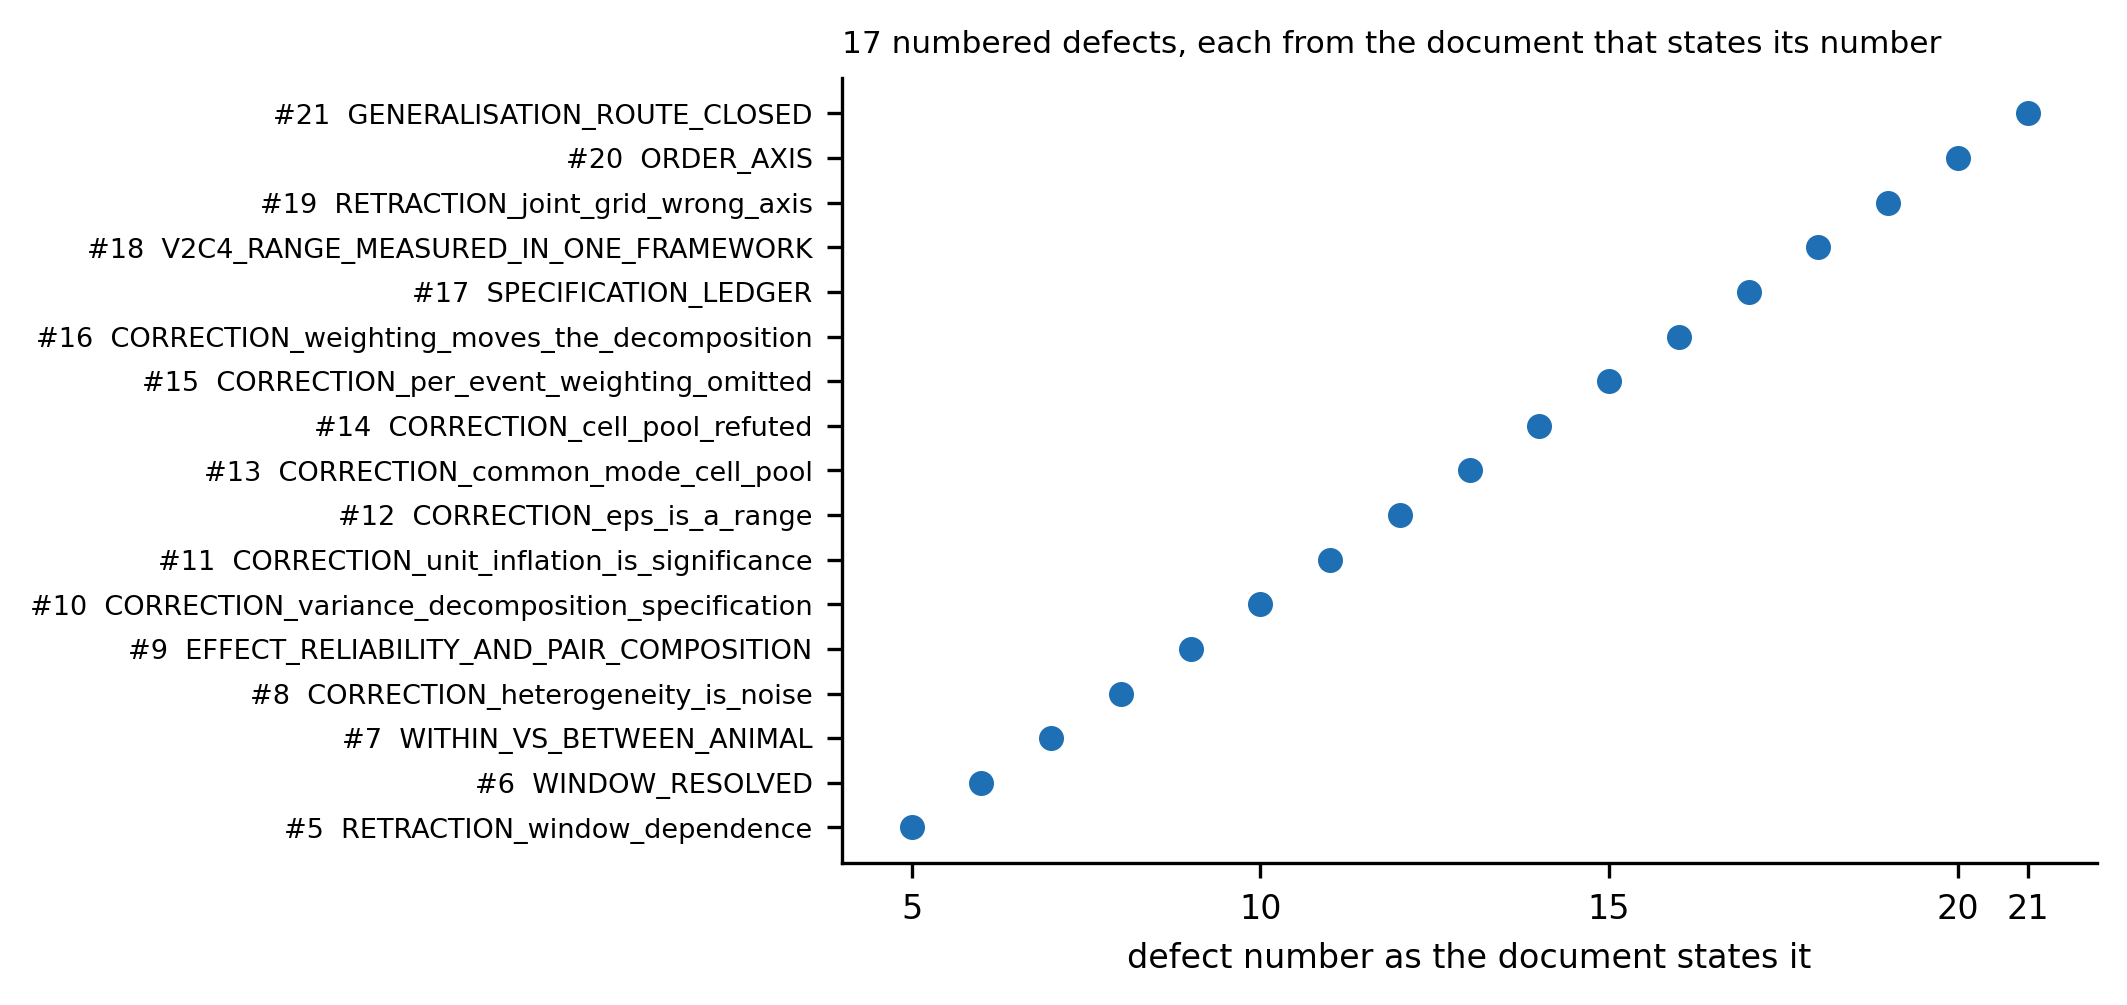
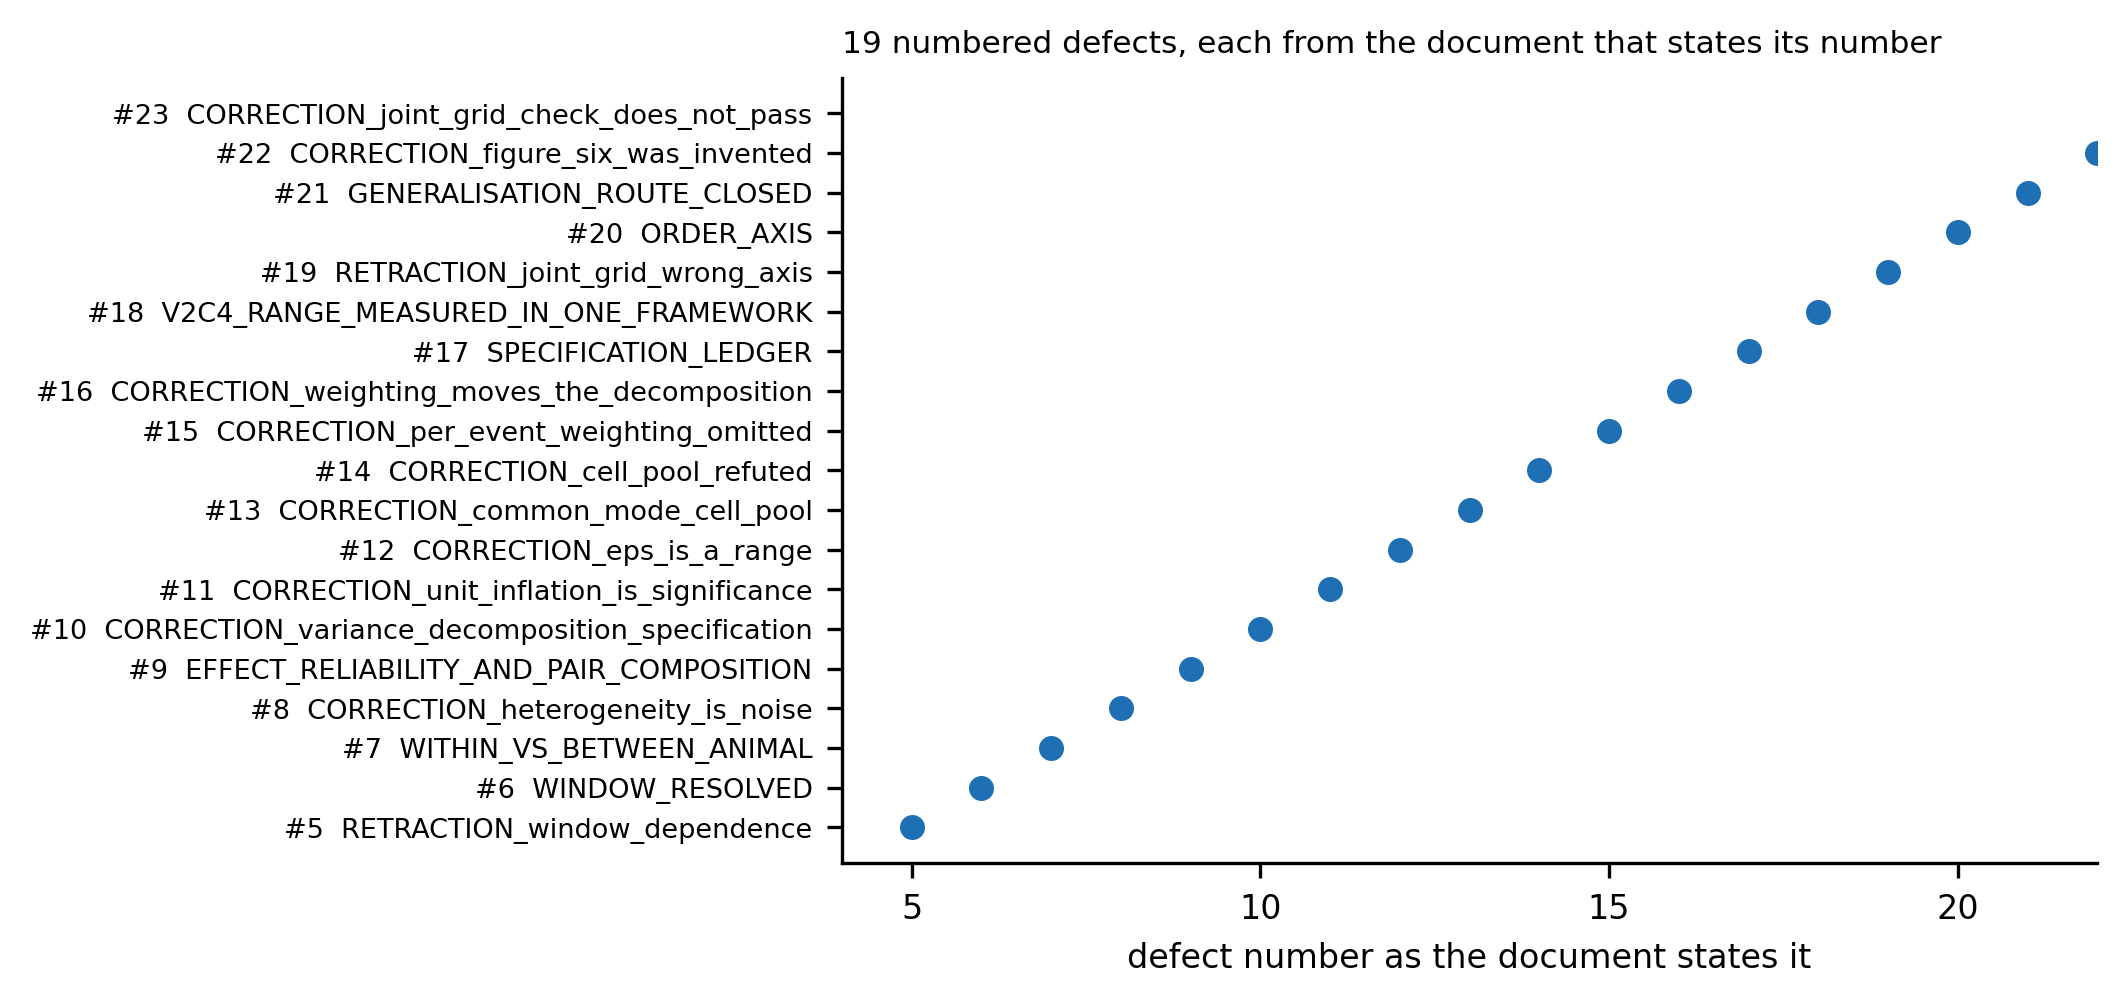
Verification pass: the defect ledger was stale by two in four places, and two descriptions did not match the record
The owner asked for three specific checks before the venue decision. One found no defect and two found real ones.

CHECK 1, THE FOUR VALUES OF THE MEASUREMENT-ERROR SHARE: NO DEFECT. "17 to 57 per cent" appears three times and is
the same quantity in all three. "38.7 to 57.1 per cent" is stated in section 2.4 as the eight-specification
sub-grid. "37 to 57 per cent" appears ONLY inside the sentence that withdraws it. And "5.5 to 46.0 per cent" is
the PAIR-SPECIFIC share, a different quantity. The sweep that flagged four values had conflated two quantities in
one regular expression, so the fault was in the check.

CHECK 2, THE DEFECT COUNT: A REAL DEFECT IN FOUR PLACES. The committed record now numbers nineteen defects, fifth
to twenty-third, because two were added since the count was last regenerated: the twenty-second, the figure drawn
from an invented table, and the twenty-third, the failed joint-grid check, which is the most serious defect in
this corpus. The manuscript said seventeen in its abstract and in its methods, CORPUS_INDEX said seventeen, and
FIGURE 6's number map stopped at twenty-first so the figure DREW seventeen. All four are corrected and the figure
now draws all nineteen, verified by opening it.

AND THE LEDGER RECORDS WHY IT HAS NOW GONE STALE TWICE: a defect is recorded by WRITING A NEW DOCUMENT, and
nothing regenerates the ledger. That is the mechanism, not an oversight, and it is now written down where the
count lives.
[…]

diff --git a/v2/figures/make_figures.py b/v2/figures/make_figures.py
@@ -167,7 +167,7 @@ fig.savefig(OUT/"Fig5_like_for_like.png"); plt.close(fig)
 # wrong, and the round a document MENTIONS is not reliably the round of discovery, so the round is not plotted.
 NUM = {"fifth":5,"sixth":6,"seventh":7,"eighth":8,"ninth":9,"tenth":10,"eleventh":11,"twelfth":12,
        "thirteenth":13,"fourteenth":14,"fifteenth":15,"sixteenth":16,"seventeenth":17,"eighteenth":18,
-       "nineteenth":19,"twentieth":20,"twenty-first":21}
+       "nineteenth":19,"twentieth":20,"twenty-first":21,"twenty-second":22,"twenty-third":23}
 _rows = {}
 # tools/ is meta-documentation: it DISCUSSES the defects rather than defining them, and would
 # otherwise be matched for whichever number its prose happens to mention.
@@ -187,7 +187,7 @@ ax.set_yticks(range(len(defects)))
 ax.set_yticklabels([d[0] for d in defects], fontsize=6.5)
 ax.set_xlabel("defect number as the document states it")
 ax.set_xlim(4, 22)
-ax.set_xticks([5, 10, 15, 20, 21])
+ax.set_xticks([5, 10, 15, 20])
 ax.set_title(f"{len(defects)} numbered defects, each from the document that states its number",
              fontsize=7.5, loc="left")
 fig.savefig(OUT/"Fig6_defect_ledger.png"); plt.close(fig)

diff --git a/v2/manuscript/MANUSCRIPT_v2_draft.md b/v2/manuscript/MANUSCRIPT_v2_draft.md
@@ -63,7 +63,7 @@ most informed possible re-implementers", which asserted an identity between this
 the audited pipeline's, and no such identity holds.** **The demonstration is therefore that an INDEPENDENT
 group could not recover the specification from the artifact without reading the code line by line, which is
 what the record shows, rather than the stronger and unsupported claim it replaced.** We report the full defect
-ledger -- seventeen numbered self-found errors, each named by the correction document that records it, plus
+ledger -- NINETEEN numbered self-found errors, from the fifth to the twenty-third, each named by the DOCUMENT that records it -- nine of them are correction documents, two are retractions, and eight are analysis documents in which a defect was found and recorded -- plus
 earlier ones referenced in prose and not separately documented -- because it is the evidence for the claim
 rather than an appendix to it.**
 
@@ -483,10 +483,10 @@ reproduce a step without the authors' code, and they are enough to flip a pre-re
 **So the paper does NOT report that test's outcome.** **What it reports is the part both codings agree on:
 both matrices declare several of the dimensions this atlas leaves undeclared, the counts exceed the atlas's
 ONE, and the dimensions are therefore not universally undeclared, while no rate can be quoted from a sample
-of two.** **The second is the stronger case, because a
-reliability analysis of its own measurement is a stated aim rather than a by-product.** **So these dimensions are NOT
-universally undeclared, the counterexample sits in the same citing frame, and the paper's claims are about
-this atlas and about an observed rate rather than about necessity.** **The measurement-error share is a range
+of two.** **Both matrices are in the same citing frame as the audited atlas, so the
+counterexample is not drawn from a different literature, and the mouse matrix is the stronger instance of the two
+because a reliability analysis of its own measurement is a stated aim there rather than a by-product.** **The
+paper's claims are therefore about THIS atlas and about an observed rate, and not about necessity.** **The measurement-error share is a range
 over the specifications we varied and not a property of the preparation.** **The pair-specific component is
 ill posed at the unrestricted specification and we have not resolved the estimator.** **And we have had no
 independent review: the review recorded in `../wp5_governance/PREFLIGHT_REVIEW.md` is this line's own.**
@@ -547,7 +547,7 @@ and those twenty-seven now include every artifact the figure legends below name,
 not: six of the seven legend sources, including the order grid, the joint grid and the specification ledger,
 were outside the hash chain while the text claimed the chain covered the figures. The file does not carry its
 own hash, because writing the value changes the file.**
-**Seventeen numbered self-found defects and the invalid runs that produced some of them are retained rather
+**NINETEEN numbered self-found defects, from the fifth to the twenty-third, and the invalid runs that produced some of them are retained rather
 than deleted, under `v2/wp3_results/`.**
 
 ---

diff --git a/v2/wp3_results/CORPUS_INDEX.md b/v2/wp3_results/CORPUS_INDEX.md
@@ -76,7 +76,10 @@ document remains findable by the claim it made.**
 
 ## 5. The defect ledger
 
-**Seventeen numbered self-found defects, from the fifth to the twenty-first, each named by its own
+**NINETEEN numbered self-found defects, from the fifth to the twenty-third, each named by its own
+**This count has now been stale twice, both times by exactly the entries added most recently:
+first at seventeen when the twenty-second was committed, and again here.** **The cause is the same each time,
+and it is worth naming: a defect is recorded by WRITING A NEW DOCUMENT, and nothing regenerates the ledger.**
 committed correction document; defects one to four are referenced in prose but have no document that names
 them. A further thirteen self-inflicted check failures are recorded in `../tools/README.md`.** **The count was
 previously stated as twenty-one, which came from a figure whose table was typed from memory; see

diff --git a/v2/wp5_governance/review/REVISION_LOG.md b/v2/wp5_governance/review/REVISION_LOG.md
@@ -9,3 +9,4 @@
 | round 71 | 43a2292ae751da832cfe42ff86ab1b4d6ac6e6703fb711947640bb30cf36a7ce | 623 lines | the attenuation point value 0.081 withdrawn; R1-M8 closed; R1 and R3 concerns all addressed |
 | round 74 | 43a2292ae751da832cfe42ff86ab1b4d6ac6e6703fb711947640bb30cf36a7ce | 623 lines | decomposition validated by simulation; base rate measured at 0.0 per cent (two coders, 97.7 per cent agreement) |
 | round 75 | 9627c79f960d4ffd5bd265665f4e209cc4f864fe74d2c2ff115276f29763f90a | 655 lines | the measured base rate and the decomposition simulation are written into the manuscript |
+| round 89 | ed5a2bad5a8469cc683083d3f71f3f7c341f9ca471f7fc263c3a53e4c9189819 | 712 lines | verification pass: defect ledger 17->19 in four places, Fig 6 now draws 19, jumbled limitations paragraph rewritten |
